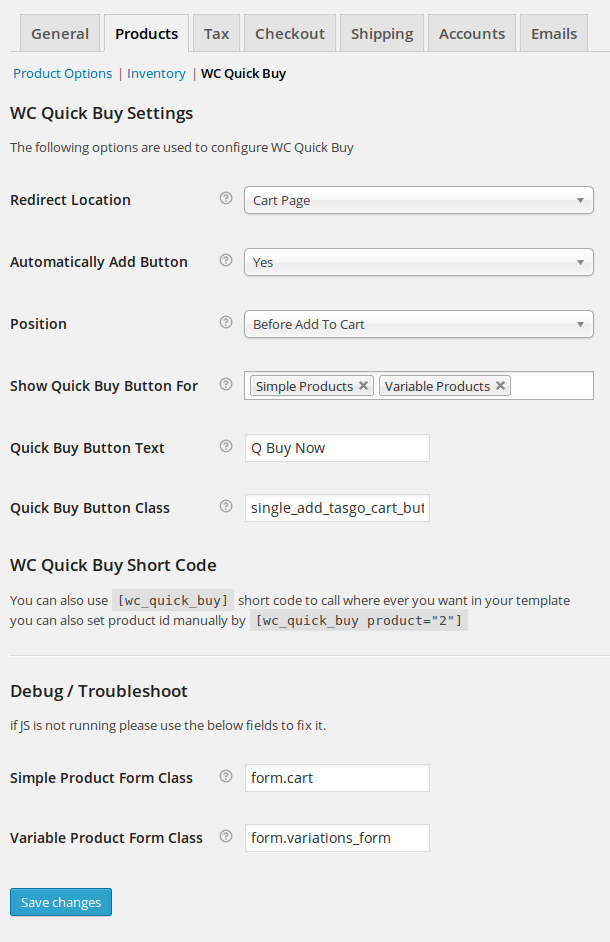
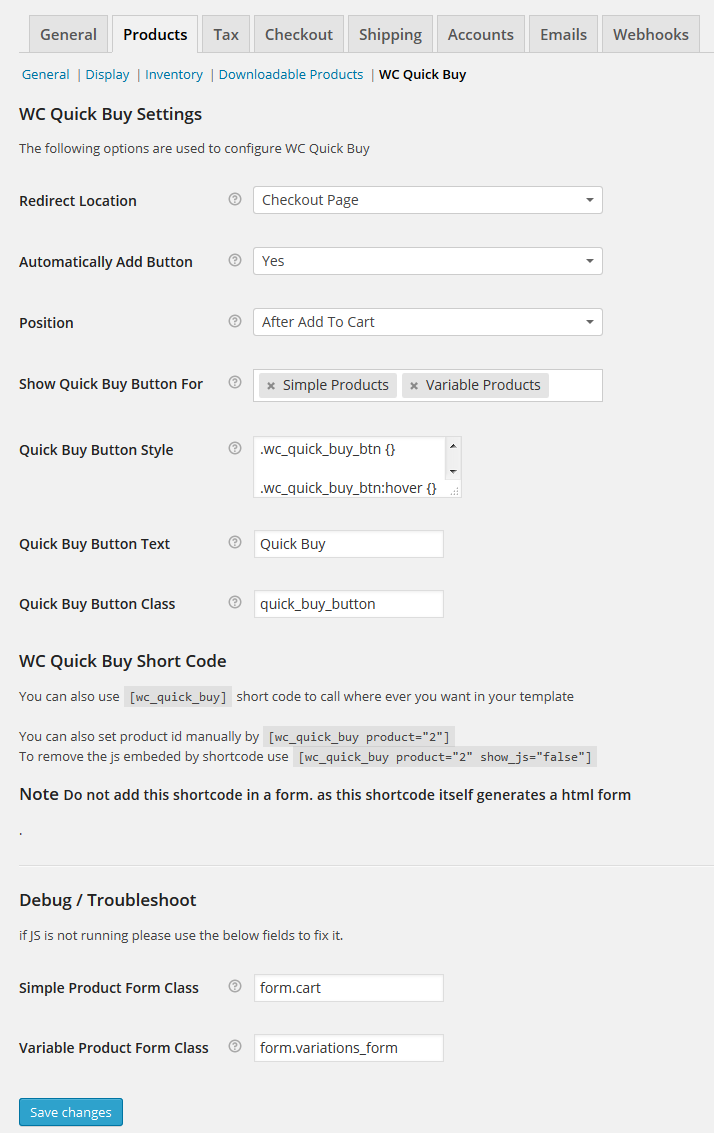
0.9
* Fixed Form Class Issue.
* Added Default Form Class <code>wc_quick_buy_form </code> And <code>
wc_quick_buy_form_{product_id}</code>
* Added Option Add CSS Directly
* Minor Bug Fix
* Made Compatible With latest WordPress and Woo Commerce Version

diff --git a/woocommerce-quick-buy.php b/woocommerce-quick-buy.php
@@ -17,12 +17,14 @@
     Plugin Name: Woocommerce Quick Buy
     Plugin URI: http://varunsridharan.in/
     Description: Woocommerce Quick Buy
-    Version: 0.8
+    Version: 0.9
     Author: Varun Sridharan
     Author URI: http://varunsridharan.in/
     License: GPL2
+    GitHub Plugin URI: https://github.com/technofreaky/woocomerce-quick-buy
 */
 defined('ABSPATH') or die("No script kiddies please!"); 
+ 
 
 
 class wc_quick_buy {
@@ -52,6 +54,8 @@ class wc_quick_buy {
 		$this->settings['where_to_show'] = get_option('wc_quick_buy_product_types');
 		$this->settings['simple_product_form_class'] = get_option('wc_quick_buy_simple_product_form_class');
 		$this->settings['variable_product_form_class'] = get_option('wc_quick_buy_variable_product_form_class');
+        $this->settings['wc_quick_buy_btn_css'] = get_option('wc_quick_buy_btn_css');
+        
 		if(isset($this->settings['automatic']) && $this->settings['automatic'] == 'true'){
 			if(! empty($this->settings['position']) && ! $this->settings['position'] == null){
 				add_action ('woocommerce_'.$this->settings['position'].'_add_to_cart_form',array($this,'wc_quick_buy_after_add_to_cart_form_add'),99);
@@ -95,6 +99,9 @@ class wc_quick_buy {
 		add_option('wc_quick_buy_product_types','');
 		add_option('wc_quick_buy_simple_product_form_class','form.cart');
 		add_option('wc_quick_buy_variable_product_form_class','form.variations_form');
+        add_option('wc_quick_buy_btn_css','.wc_quick_buy_btn {} 
+                                           .wc_quick_buy_btn:hover {}
+        ');
 		return true;
 	}
 	
@@ -146,6 +153,14 @@ class wc_quick_buy {
 				'class' =>'chosen_select',
 				'options' => array('simple' => 'Simple Products','variable'=>'Variable Products')
 			);	
+            
+            $wc_quick_buy[] = array(
+				'name' => __( 'Quick Buy Button Style', 'text-domain' ),
+				'desc_tip' => __( 'Directly Add Button CSS', 'text-domain' ),
+				'id' => 'wc_quick_buy_btn_css',
+				'type' => 'textarea', 
+			); 
+            
 			$wc_quick_buy[] = array(
 				'name' => __( 'Quick Buy Button Text', 'text-domain' ),
 				'desc_tip' => __( 'You Can Change The Quick Buy Button Lable', 'text-domain' ),
@@ -158,7 +173,7 @@ class wc_quick_buy {
 				'id' => 'wc_quick_buy_class',
 				'type' => 'text', 
 			); 		
-			
+				
 			$wc_quick_buy[] = array( 'type' => 'sectionend', 'id' => 'wc_quick_buy' );
 			
 			$wc_quick_buy[] = array( 'name' => __( 'WC Quick Buy Short Code', 'text-domain' ), 
@@ -271,6 +286,17 @@ class wc_quick_buy {
         return $output;
 	}
 	
+    /**
+     * Returns if any style in db.
+     * @since 0.9
+     * @return null / value
+     */
+    private function wc_quick_buy_button_style(){
+        if(!empty($this->settings['wc_quick_buy_btn_css'])){
+            return '<style> '.$this->settings['wc_quick_buy_btn_css'].'</style>';
+        }
+    }
+    
 	/**
 	 * Custom form For Simple product
 	 * @since 0.4
@@ -280,13 +306,14 @@ class wc_quick_buy {
 	 */
 	public function wc_quick_buy_add_form_simple_product($productid,$add_js=true){
 		
-		$form = '<form id="wc_quick_buy_'.$productid.'" id="wc_quick_buy_form wc_quick_buy_form_'.$productid.'" method="post" enctype="multipart/form-data">
+		$form = '<form id="wc_quick_buy_'.$productid.'" class="wc_quick_buy_form wc_quick_buy_form_'.$productid.'" method="post" enctype="multipart/form-data">
 		<input  type="hidden" value="1" name="quantity" id="quantity">
 		<input  type="hidden" value="true" name="quick_buy" />
 		<input  type="hidden" name="add-to-cart" value="'.esc_attr($productid).'" />
-		<button type="submit" class="'.$this->settings['class'].'">'.$this->settings['lable'].'</button>';
+		<button type="submit" class="wc_quick_buy_btn '.$this->settings['class'].'">'.$this->settings['lable'].'</button>';
         if($add_js === true){$form .= '<div class="variable_details" id="variable_details" ></div>';}
 		$form .= '</form>';
+        $form .= $this->wc_quick_buy_button_style();
 		if($add_js === true){$form .= '	<script>
 				jQuery("document").ready(function(){
 					jQuery("'.$this->settings['simple_product_form_class'].' input[name=quantity]").change(function(){
@@ -310,13 +337,14 @@ class wc_quick_buy {
 	 */
 	public function wc_quick_buy_add_form_variable_product($productid,$add_js=true){
 		
-		$form = '<form id="wc_quick_buy_'.$productid.'" id="wc_quick_buy_form wc_quick_buy_form_'.$productid.'" method="post" enctype="multipart/form-data">
+		$form = '<form id="wc_quick_buy_'.$productid.'" class="wc_quick_buy_form wc_quick_buy_form_'.$productid.'" method="post" enctype="multipart/form-data">
 		<input  type="hidden" value="1" name="quantity" id="quantity">
 		<input  type="hidden" value="true" name="quick_buy" />
 		<input  type="hidden" name="add-to-cart" value="'.esc_attr($productid).'" />
-		<button type="submit" class="'.$this->settings['class'].'">'.$this->settings['lable'].'</button>';
+		<button type="submit" class="wc_quick_buy_btn '.$this->settings['class'].'">'.$this->settings['lable'].'</button>';
 		if($add_js === true){$form .= '<div class="variable_details" id="variable_details" ></div>';}
 		$form .= '</form> ';
+        $form .= $this->wc_quick_buy_button_style();
 			if($add_js === true){$form .= '<script>
 				jQuery("document").ready(function(){ 
 					jQuery("'.$this->settings['variable_product_form_class'].'").change(function(){

diff --git a/uninstall.php b/uninstall.php
@@ -13,11 +13,19 @@
     You should have received a copy of the GNU General Public License
     along with this program; if not, write to the Free Software
     Foundation, Inc., 51 Franklin St, Fifth Floor, Boston, MA  02110-1301  USA 
-*/ 
-if ( !defined( 'WP_UNINSTALL_PLUGIN' ) ) 
-    exit();
+ 
+    * Fired when the plugin is uninstalled.
+    * @package  Woocommerce Quick Buy
+    * @author Varun Sridharan <varunsridharan23@gmail.com>
+    * @license GPL-2.0+
+    * @link https://wordpress.org/plugins/woocommerce-quick-buy/
+    * @copyright 2015 Varun Sridharan [TechNoFreaky]
+*/
 
-$options = array('wc_quick_buy_auto','wc_quick_buy_position','wc_quick_buy_lable','wc_quick_buy_class','wc_quick_buy_redirect','wc_quick_buy_product_types','wc_quick_buy_simple_product_form_class','wc_quick_buy_variable_product_form_class');
+if ( ! defined( 'WP_UNINSTALL_PLUGIN' ) ) {
+exit;
+} 
+$options = array('wc_quick_buy_auto','wc_quick_buy_position','wc_quick_buy_lable','wc_quick_buy_class','wc_quick_buy_redirect','wc_quick_buy_product_types','wc_quick_buy_simple_product_form_class','wc_quick_buy_variable_product_form_class','wc_quick_buy_btn_css');
 foreach($options as $option_name){
 	delete_option( $option_name );
 	delete_site_option( $option_name );  
